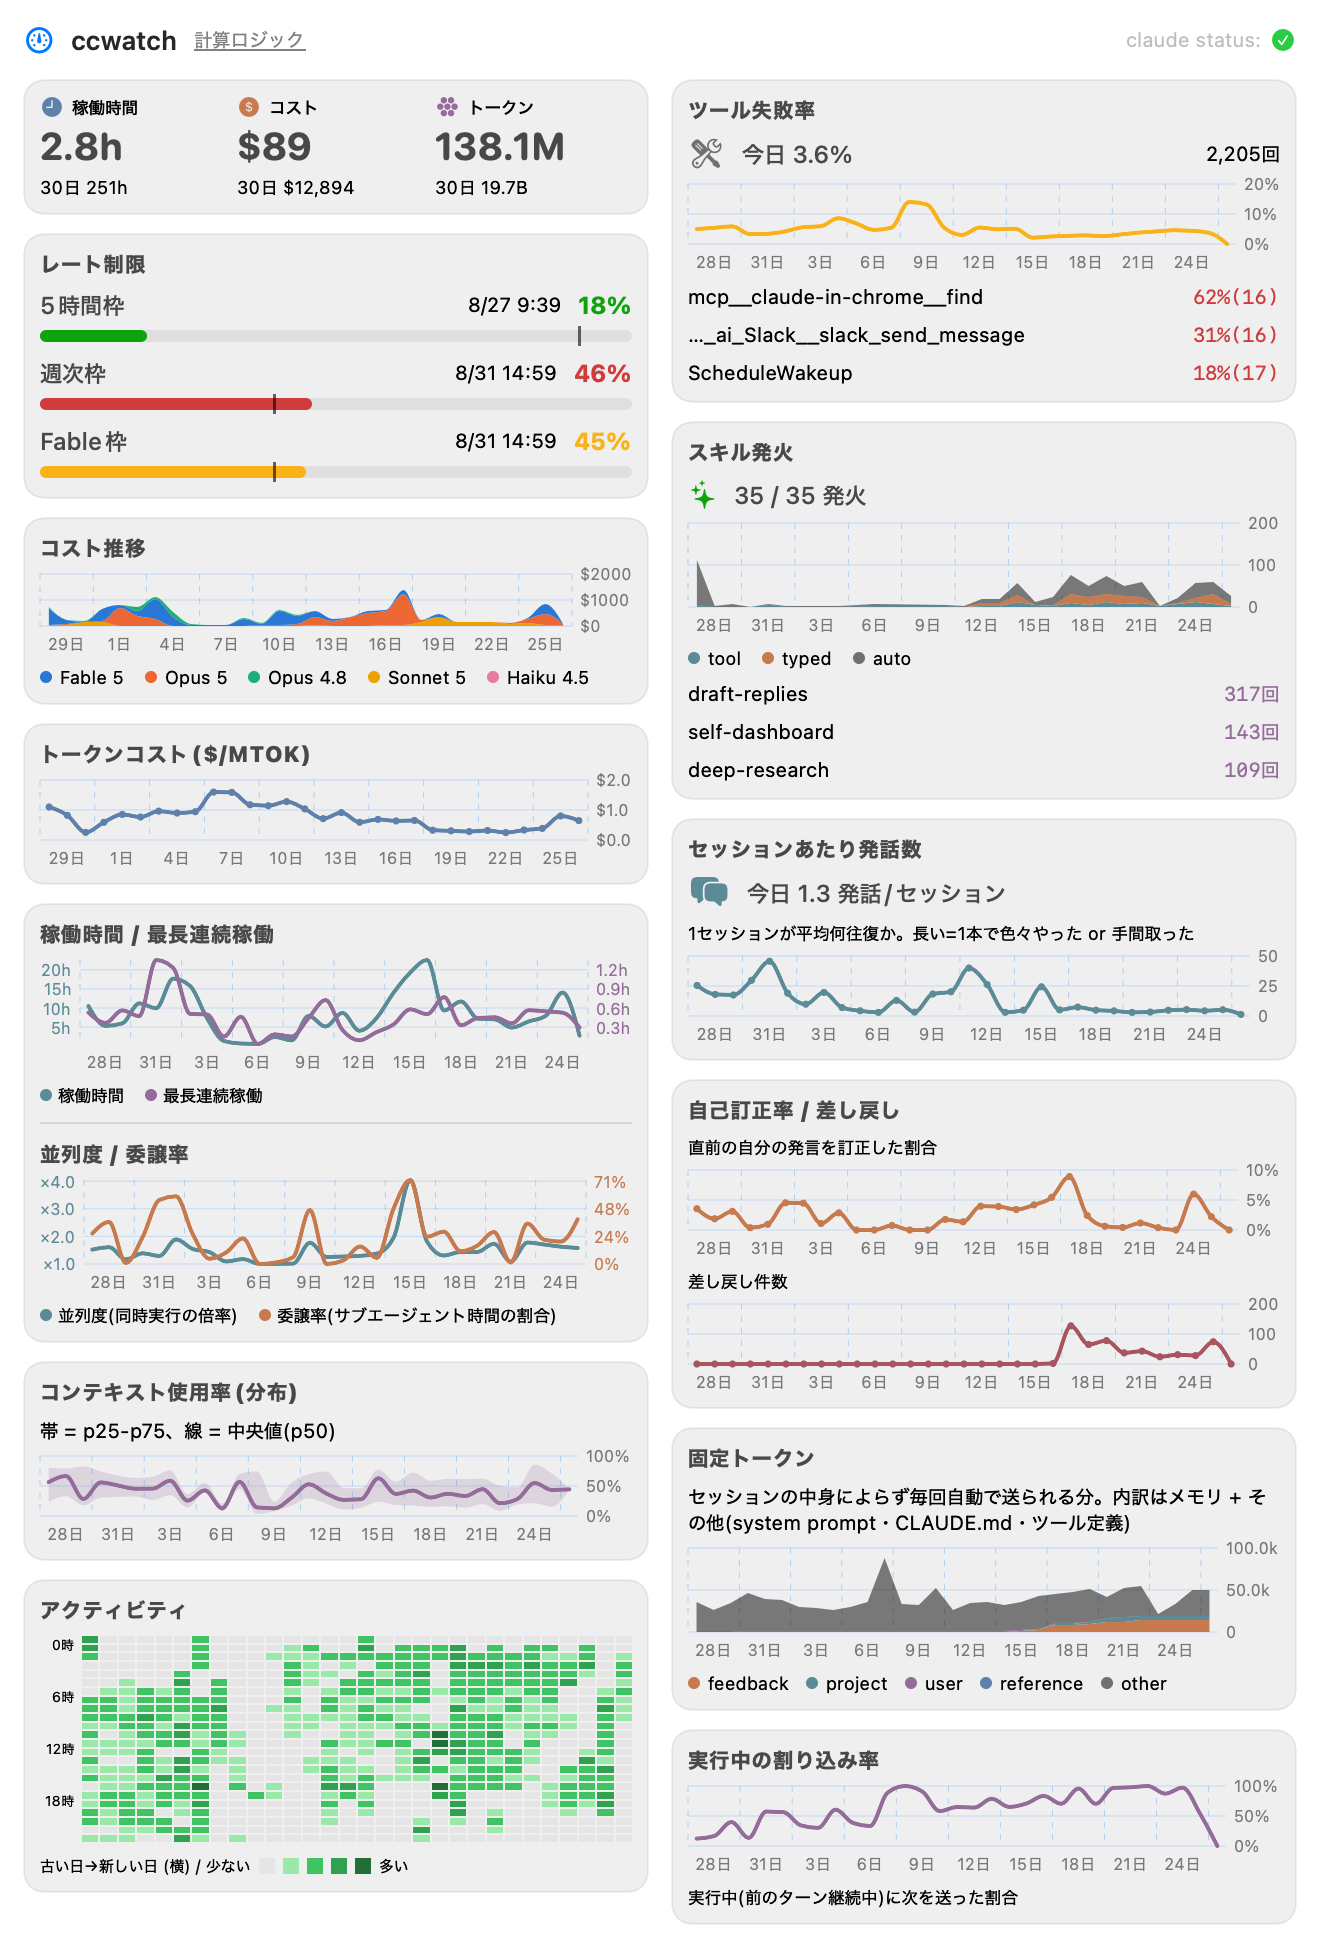
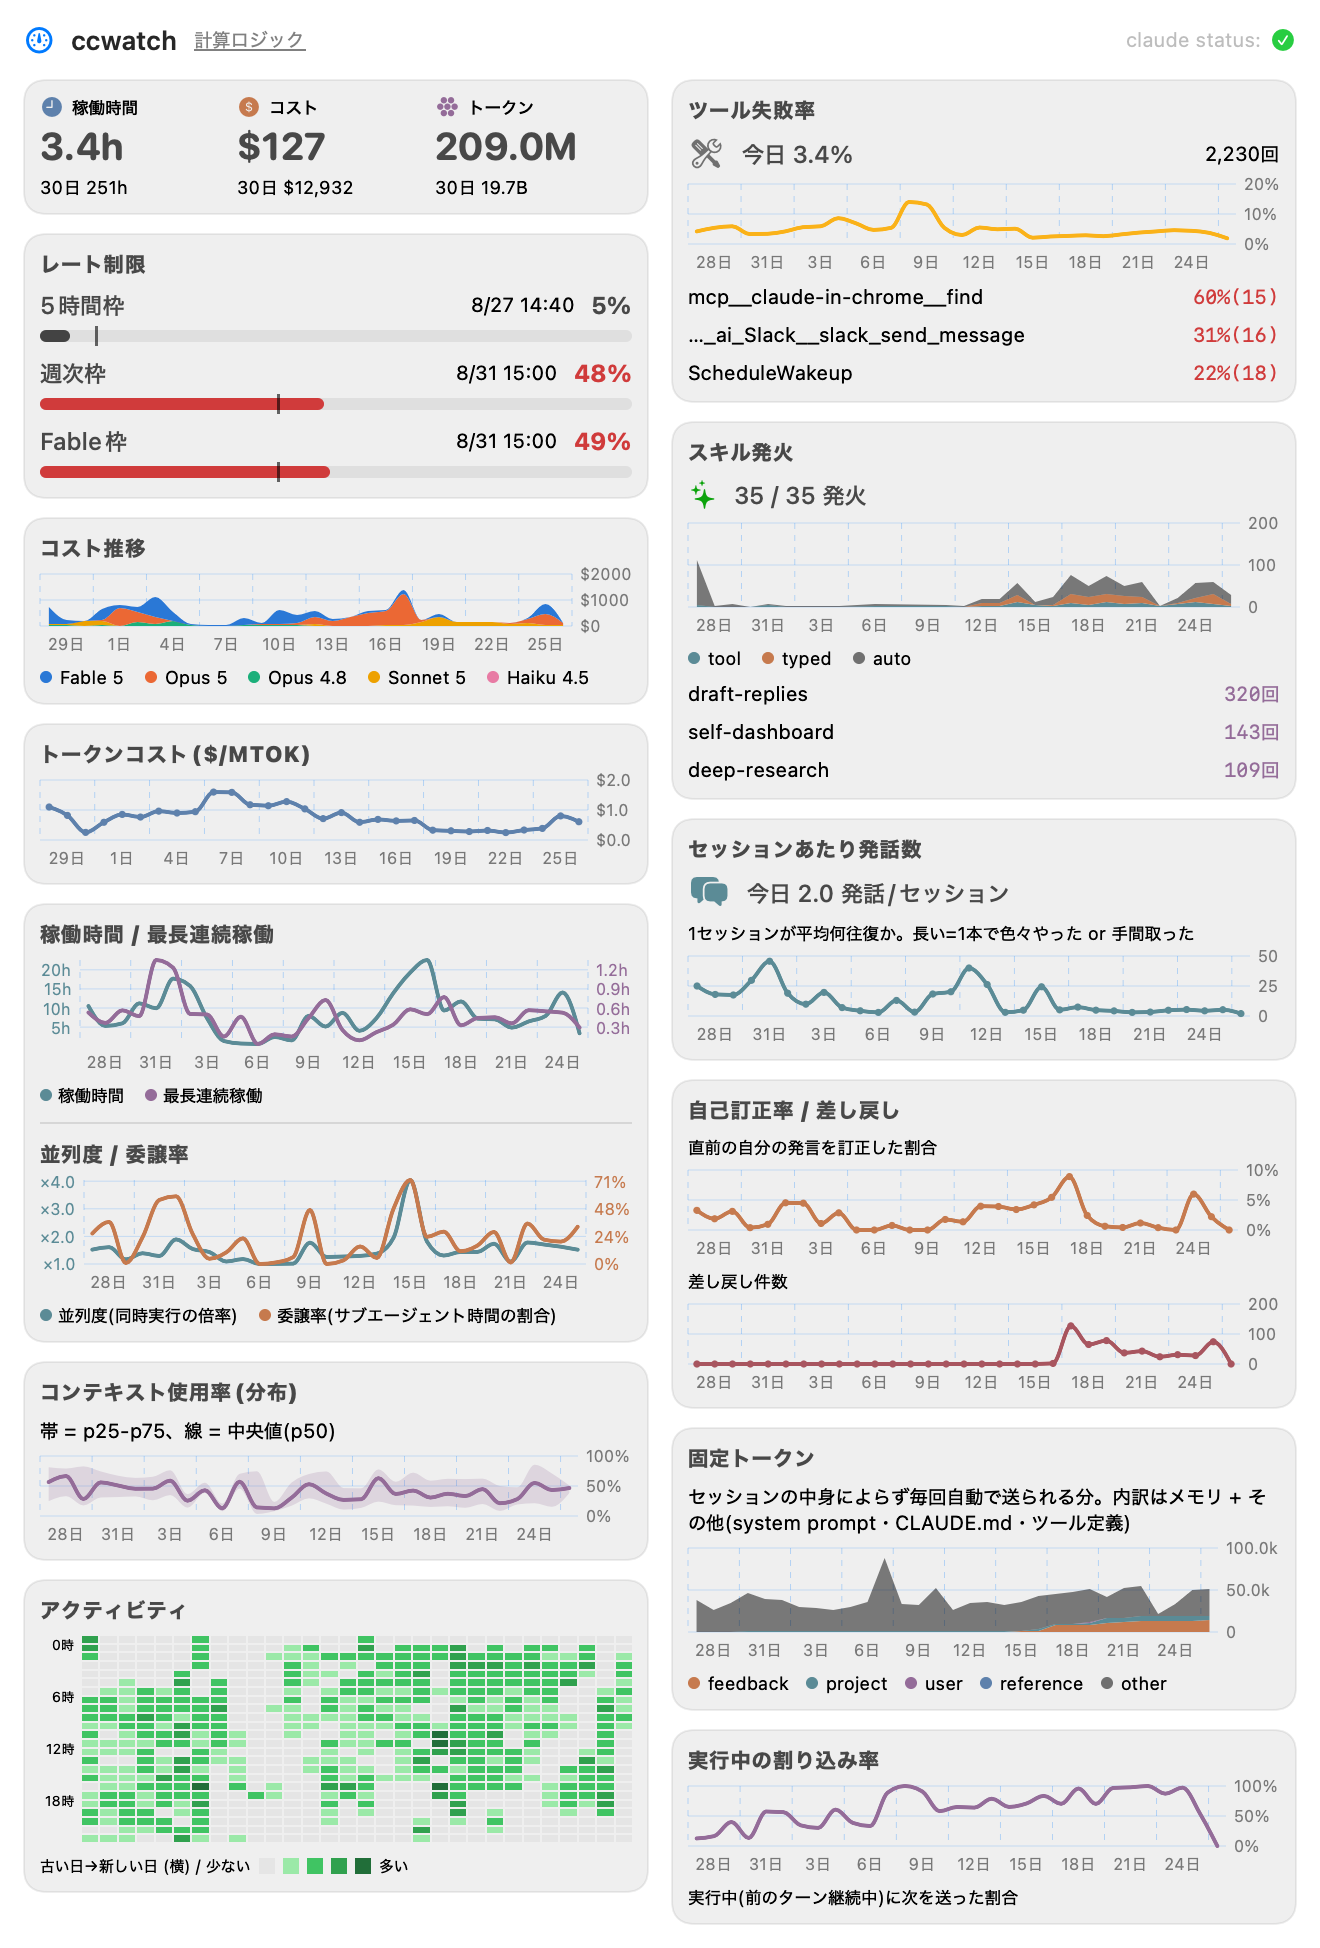
fix: do not run the image renderer inside the image renderer
--render-preview renders the menu bar label, and the label had just been
changed to render itself. The nested pass trapped with exit 133 — not on
every run, which is the worse kind. The preview path takes the plain view
now; it never went through template rendering, so it did not need the
bake. Ten consecutive renders, no failures.

README images refreshed from the current build.

Claude-Session: https://claude.ai/code/session_01V24ihfUe8FYNssEMVkJcSf

diff --git a/Sources/ccwatch/UI.swift b/Sources/ccwatch/UI.swift
@@ -340,8 +340,14 @@ struct MenuBarLabel: View {
     // こうするとテンプレート化を通らないので色がそのまま出る。
     // 返すビューは常に Image ひとつ(トポロジー固定)なので、下に書かれている
     // NSStatusItem の再描画問題とも衝突しない。
+    /// `--render-preview` はこのビュー自体を ImageRenderer に通す。そこで
+    /// さらに内側で ImageRenderer を回すと入れ子になり、実測で SIGTRAP(exit 133)
+    /// で落ちた — しかも毎回ではなく散発的に。プレビュー側は焼く必要が無い
+    /// (テンプレート化を通らないので色はそのまま出る)ので、素のビューを返す。
+    var bakeToImage: Bool = true
+
     var body: some View {
-        if let img = rendered() {
+        if bakeToImage, let img = rendered() {
             Image(nsImage: img)
         } else {
             content   // 焼けなかったときは従来どおり(色は出ないが数字は出る)
@@ -1302,7 +1308,7 @@ func renderPreviewAndExit(to path: String) -> Never {
             ? String(path.dropLast(4)) + "-menubar.png"
             : path + "-menubar.png"
         writePNG(
-            MenuBarLabel(snap: snap)
+            MenuBarLabel(snap: snap, bakeToImage: false)
                 .padding(.horizontal, 6).padding(.vertical, 2)
                 .background(Color(light: "#fcfcfb", dark: "#1a1a19")),
             to: menubarPath
